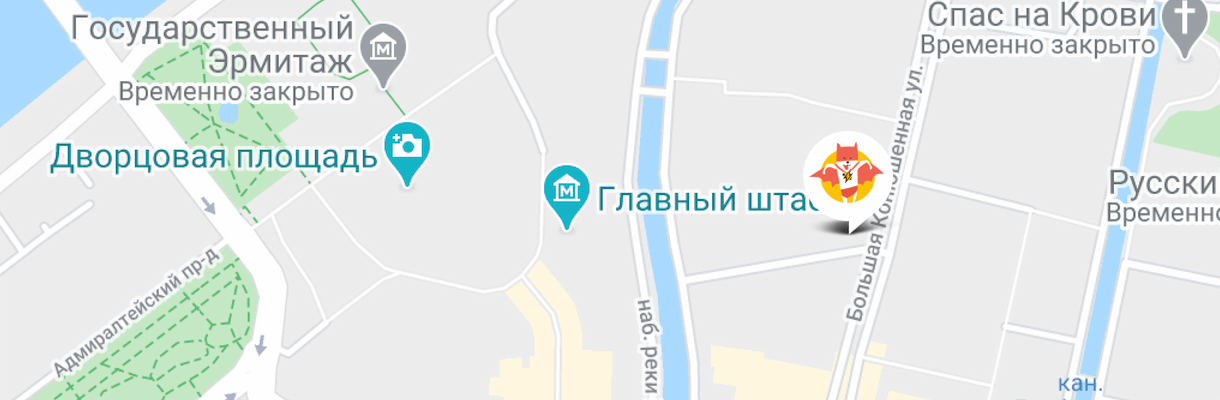
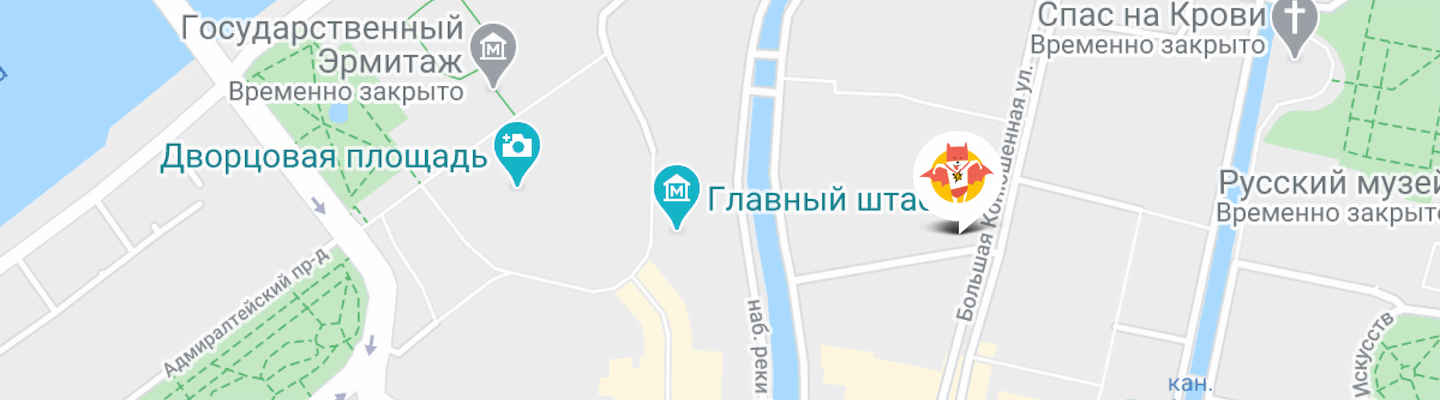
Б11

diff --git a/source/sass/blocks/map.scss b/source/sass/blocks/map.scss
@@ -36,7 +36,7 @@
 .map__image {
 	grid-area: 1 / 1 / 2 / 2;
 	display: block;
-	object-fit: contain;
+	object-fit: cover;
 	object-position: center;
 	width: var(--map-width);
 	min-height: var(--map-height);

diff --git a/source/sass/blocks/gifts.scss b/source/sass/blocks/gifts.scss
@@ -21,7 +21,7 @@
 
 	@media #{$desktop-only} {
 		gap: 44px;
-		padding-inline: 40px;
+		padding-inline: 32px;
 	}
 
 	@include bg-image("giftcat");
